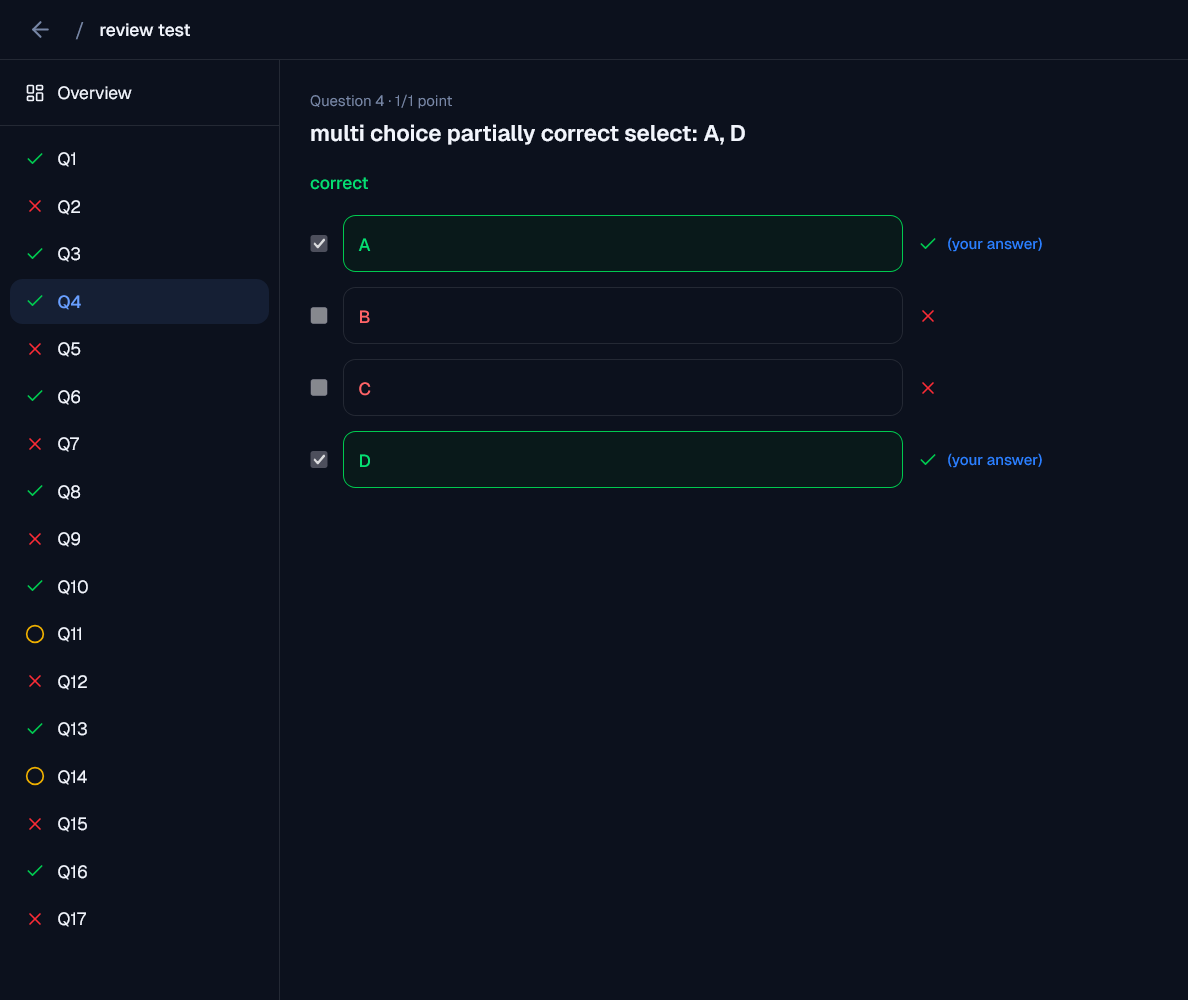
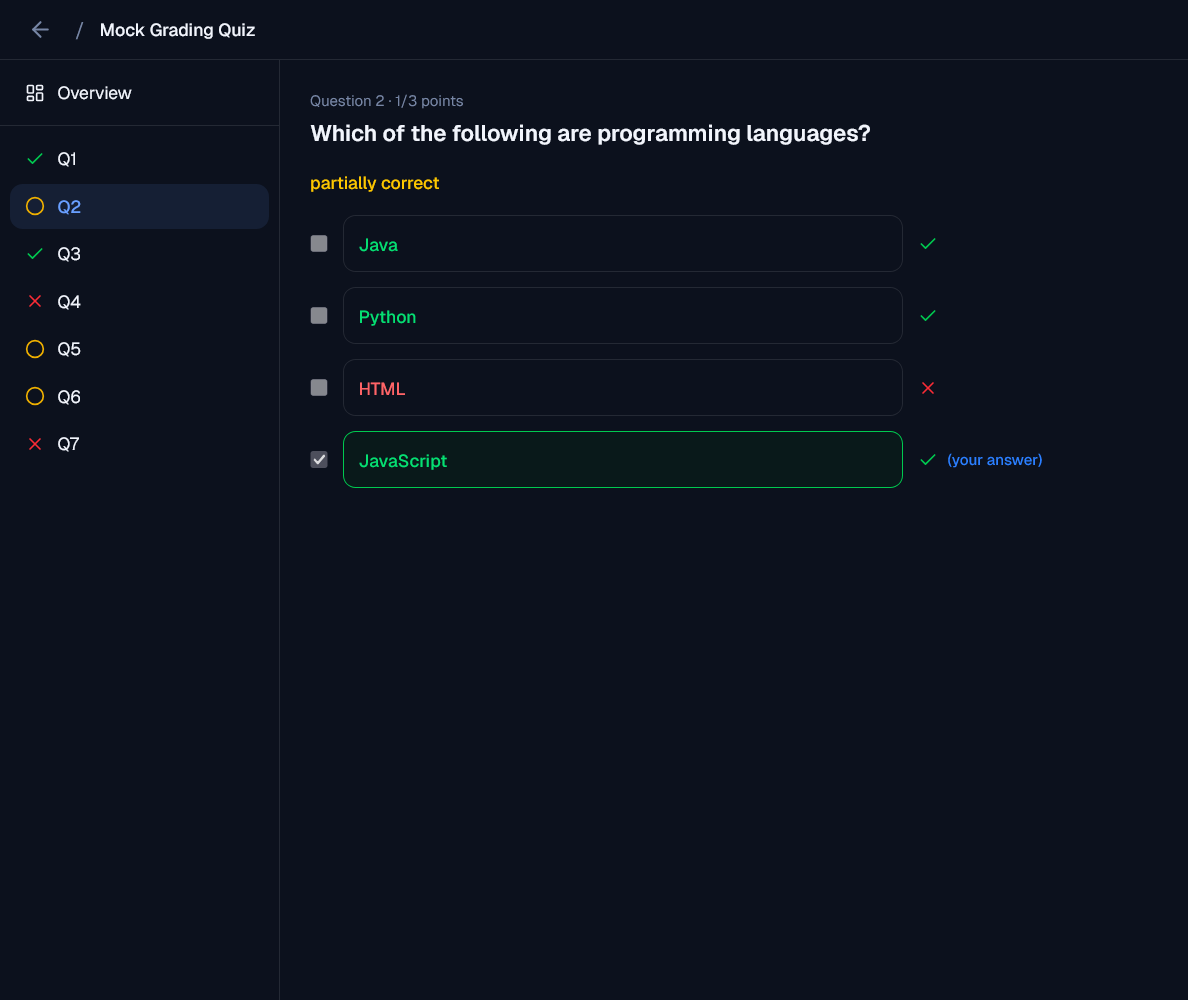
last minute changes

diff --git a/main.tex b/main.tex
@@ -77,9 +77,9 @@
 
 %% Zde zadejte abstrakt a klicova slova
 \abstrakt{
-Cílem této práce je navrhnout a implementovat full-stack webovou aplikaci pro správu testů, inspirovanou systémem Moodle, avšak s důrazem na moderní uživatelské rozhraní a specifické analytické funkce pro sebetestování.
+Cílem této bakalářské práce je návrh a implementace plně funkční full-stack webové aplikace Revizer pro správu a procvičování testů, která je inspirována robustními systémy jako Moodle, ale zaměřuje se primárně na potřeby samostatného studenta, moderní uživatelské rozhraní a pokročilou behaviorální analytiku. Současné vzdělávací platformy jsou často orientovány na formální zkoušení ze strany pedagogů, což studentům ztěžuje jejich využití k efektivnímu sebevzdělávání metodou aktivního vybavování znalostí (active recall). Praktickým výstupem práce je responzivní Single Page Application postavená na technologiích React, Spring Boot a relační databázi MySQL. Aplikace umožňuje uživatelům vytvářet personalizované kvízy organizované do strukturovaných kategorií. Podporuje širokou škálu sedmi interaktivních formátů otázek, včetně výběru jedné či více možností, pravdivostních tvrzení, přiřazování dvojic, řazení prvků pomocí rozhraní Drag and Drop, studijních kartiček a volných textových odpovědí.
 }{
-The goal of this thesis is to design and implement a full-stack web application for test management, inspired by the Moodle system, but with an emphasis on a modern user interface and specific analytical functions for self-testing.
+The goal of this bachelor thesis is the design and implementation of a fully functional full-stack web application, Revizer, for managing and practicing tests. While inspired by robust systems such as Moodle, it focuses primarily on the needs of self-directed learners, featuring a modern user interface and advanced behavioral analytics. Current educational platforms are often oriented toward formal assessment by educators, making it difficult for students to use them for effective self-study via active recall methods. The practical output of the thesis is a responsive Single Page Application built on React, Spring Boot, and a MySQL relational database. The application enables users to create personalized quizzes organized into structured categories. It supports a wide range of seven interactive question formats, including single- and multiple-choice questions, true/false statements, matching pairs, Drag and Drop element ordering, flashcards, and open-ended text responses.
 }
 \klicovaslova{testování, webová aplikace, React, Spring Boot, vzdělávání}{testing, web application, React, Spring Boot, education}
 
@@ -403,10 +403,6 @@ Během vývoje aplikace bude pro správu verzí zdrojového kódu využit systé
 
 Pro efektivní řízení vývoje a organizaci práce bude využit nástroj \textbf{Jira} (\url{https://www.atlassian.com/software/jira}). Systém Jira poslouží k plánování a sledování jednotlivých sprintů, správě backlogu a detailní evidenci vývojových úloh (tasků).
 
-\subsubsection{Postman}
-
-Během vývoje byl pro testování REST API využit nástroj \textbf{Postman} (\url{https://www.postman.com}). Jedná se o platformu, která umožňuje jednoduše sestavovat a odesílat HTTP požadavky na backendové endpointy a následně analyzovat odpovědi serveru. Nástroj slouží k ověřování správnosti vracených dat a funkčnosti aplikační logiky nezávisle na uživatelském rozhraní frontendu.
-
 \section{Řešení práce}
 
 Vývoj celé aplikace byl realizován s využitím pestré palety moderních softwarových nástrojů a knihoven, které zajišťují plynulý chod, bezpečnost a snadnou udržovatelnost. Projekt je koncipován jako moderní full-stack\cite{fullstack_dev} aplikace striktně rozdělená na nezávislou klientskou a serverovou část. Klientský frontend je implementován ve formě Single Page Application (SPA)\cite{spa_guide}, což zaručuje plynulé a dynamické uživatelské rozhraní. Tato klientská část vzdáleně volá REST API endpointy\cite{api_endpoint} backendové aplikace. Serverová (backend) část následně zpracovává hlavní byznysovou logiku, stará se o bezpečné ukládání a čtení veškerých dat z relační databáze a zároveň interně komunikuje se samostatným lokálním jazykovým modelem (LLM)\cite{local_llm}, který využívá k inteligentnímu vyhodnocování textových odpovědí.
@@ -467,7 +463,7 @@ Hlavní knihovny a nástroje, které byly použity:
 
 \subsection{Backend}
 
-Pro backendovou část je zvolen framework \textbf{Spring Boot}\cite{spring_boot}, který poskytuje základ pro tvorbu RESTful API, správu byznysové logiky a bezpečně řízenou bezstavovou autentizaci. Z hlediska nasazení je backend koncipován jako monolitická aplikace, jejíž vnitřní struktura je organizována do Java balíčků (packages) v rámci adresáře \texttt{src/main/java/com/opr3/opr3/}.
+Pro backendovou část je zvolen framework \textbf{Spring Boot}\cite{spring_boot}, který poskytuje základ pro tvorbu RESTful API, správu byznysové logiky a bezpečně řízenou bezstavovou autentizaci. Z hlediska nasazení je backend koncipován jako monolitická aplikace, jejíž vnitřní struktura je organizována do Java balíčků (packages).
 
 Vztahy, interakce a toky dat mezi jednotlivými komponentami jsou v kódu vymezeny následovně:
 \begin{itemize}
@@ -517,69 +513,87 @@ Přehled všech použitých technologií a knihoven je uveden v Tabulce~\ref{tab
 
 \section{Představení řešení}
 
-\mv{tady to ještě rozšřite. Tím, že ten popis architektury je celkem stručný a nemáte tam žádné "finty" k popisování v programování, tak bych se víc zaměřil na tohle a trošku to ještě víc prodejte - zmiňte, jaké všechny typy otázek tam být mohou (není vidět, jen z obrázku, normálně vysvětlete v odrážkách), jaké všechny statistiky tam být mohou (zmíněno jen obecně). Co ještě nevidím je způsob, jak se vytvořený kvíz dostane mezi ostatní uživatele, jak to funguje -- je to někde popsáno?}
-
 Vytvořené řešení představuje moderní webovou aplikaci zaměřenou na efektivní sebevzdělávání (self-testing) a metodu aktivního vybavování znalostí. Jádrem systému je tvorba personalizovaných kvízů z vlastních studijních materiálů (viz Obrázek~\ref{img:quiz_creation}), které lze logicky uspořádat do strukturovaných kategorií.
 
 \begin{figure}[H]
-    \centering
-    \includegraphics[width=0.85\textwidth]{quiz creation.png}
-    \caption{Rozhraní pro tvorbu kvízu}
-    \label{img:quiz_creation}
+\centering
+\includegraphics[width=0.85\textwidth]{quiz creation.png}
+\caption{Rozhraní pro tvorbu kvízu}
+\label{img:quiz_creation}
 \end{figure}
 
-
-Platforma nabízí vysokou flexibilitu díky podpoře mnoha typů kvízových formátů, jako jsou otázky s jedním či více výběry, přiřazování, seřazování, studijní kartičky a volné textové odpovědi. Přehled dostupných kategorií a typů otázek je znázorněn na Obrázku~\ref{img:categories} a Obrázku~\ref{img:question_types}.
+Platforma nabízí vysokou flexibilitu díky podpoře mnoha typů kvízových formátů. Přehled dostupných kategorií a typů otázek je znázorněn na Obrázku~\ref{img:categories} a Obrázku~\ref{img:question_types}. Mezi podporované formáty otázek patří:
+\begin{itemize}
+    \item \textbf{Jedna možnost (Single Choice)}: klasická volba právě jedné správné odpovědi ze seznamu,
+    \item \textbf{Více možností (Multiple Choice)}: výběr libovolného počtu správných odpovědí, kde výsledné hodnocení zohledňuje míru částečné úspěšnosti,
+    \item \textbf{Pravda/Nepravda (True/False)}: rychlé binární posouzení platnosti tvrzení,
+    \item \textbf{Přiřazování dvojic (Matching)}: spojování logicky souvisejících prvků z levého a pravého sloupce,
+    \item \textbf{Seřazování (Ordering)}: interaktivní řazení prvků do správného chronologického či logického pořadí pomocí rozhraní Drag \& Drop,
+    \item \textbf{Studijní kartička (Flashcard)}: oboustranná kartička určená k rychlému sebehodnocení, kdy uživatel po zobrazení rubové strany sám označí, zda si pojem úspěšně vybavil,
+    \item \textbf{Volná textová odpověď (Text Input)}: otevřená otázka, u níž uživatel volí buď automatické vyhodnocení sémantického významu pomocí lokálního LLM, nebo manuální sebehodnocení.
+\end{itemize}
 
 \begin{figure}[H]
-    \centering
-    \begin{subfigure}[b]{0.45\textwidth}
-        \centering
-        \includegraphics[width=\textwidth]{categories.jpg}
-        \caption{Přehled kategorií v postranním panelu}
-        \label{img:categories}
-    \end{subfigure}
-    \hfill
-    \begin{subfigure}[b]{0.45\textwidth}
-        \centering
-        \includegraphics[width=\textwidth]{question types.jpg}
-        \caption{Dostupné typy otázek při tvorbě kvízu}
-        \label{img:question_types}
-    \end{subfigure}
-    \caption{Prvky uživatelského rozhraní aplikace Revizer}
-    \label{img:ui_elements}
+\centering
+\begin{subfigure}[b]{0.45\textwidth}
+\centering
+\includegraphics[width=\textwidth]{categories.jpg}
+\caption{Přehled kategorií v postranním panelu}
+\label{img:categories}
+\end{subfigure}
+\hfill
+\begin{subfigure}[b]{0.45\textwidth}
+\centering
+\includegraphics[width=\textwidth]{question types.jpg}
+\caption{Dostupné typy otázek při tvorbě kvízu}
+\label{img:question_types}
+\end{subfigure}
+\caption{Prvky uživatelského rozhraní aplikace Revizer}
+\label{img:ui_elements}
 \end{figure}
-
 
 Zásadní inovací celého řešení je integrace umělé inteligence (lokálního jazykového modelu), která se stará o inteligentní a automatizované vyhodnocování právě těchto volných psaných odpovědí. Již při tvorbě kvízu si však uživatel volí, zda u dané textové otázky využije toto automatické posouzení pomocí LLM, nebo zda upřednostní vyhodnocení manuální. Pokud zvolí manuální přístup, správnost odpovědi nevyhodnocuje model, ale student si ji posoudí sám na konci kvízu, a to těsně před jeho finálním odevzdáním. Tato alternativa poskytuje uživateli větší flexibilitu a slouží jako důležité opatření pro případy, kdy by automatické vyhodnocení mohlo být nepřesné (například vlivem halucinací) nebo jinak nevyhovující. Příklad takového manuálního vyhodnocení je zobrazen na Obrázku~\ref{img:manual_review} -- student vidí svoji odpověď i referenční správnou odpověď a sám rozhodne, zda ji uzná jako správnou.
 
 \begin{figure}[H]
-    \centering
-    \includegraphics[width=0.75\textwidth]{manual review modal.jpg}
-    \caption{Manuální vyhodnocení otázky s volnou odpovědí}
-    \label{img:manual_review}
+\centering
+\includegraphics[width=0.75\textwidth]{manual review modal.jpg}
+\caption{Manuální vyhodnocení otázky s volnou odpovědí}
+\label{img:manual_review}
 \end{figure}
 
-
-Veškeré studijní úsilí a opakované pokusy uživatele jsou následně vizualizovány v pokročilém analytickém panelu (viz Obrázek~\ref{img:quiz_stats}), kde systém pomocí podrobných grafů a statistik ukazuje vývoj procentuální úspěšnosti, strávený čas i detailní chybovost a časovou náročnost u jednotlivých otázek.
+Veškeré studijní úsilí a opakované pokusy uživatele jsou následně vizualizovány v pokročilém analytickém panelu (viz Obrázek~\ref{img:quiz_stats}).
 
 \begin{figure}[H]
-    \centering
-    \includegraphics[width=0.85\textwidth]{quiz stats.png}
-    \caption{Analytický panel s grafy výsledků kvízu}
-    \label{img:quiz_stats}
+\centering
+\includegraphics[width=0.85\textwidth]{quiz stats.png}
+\caption{Analytický panel s grafy výsledků kvízu}
+\label{img:quiz_stats}
 \end{figure}
 
+Uživatel má k dispozici podrobné statistické vyhodnocení. Zobrazené metriky a vizualizace se dělí podle toho, zda se vztahují k celé kategorii kvízů, nebo pouze k jednomu konkrétnímu testu.
 
-Systém nezobrazuje tyto statistiky pouze u jednotlivých kvízů, ale i v rámci celé kategorie napříč všemi kvízy, které jsou v ní zařazeny.
+Statistiky dostupné jak pro každý jednotlivý test, tak i pro celou kategorii testů zahrnují:
+\begin{itemize}
+    \item \textbf{Sloupcový graf procentuálních výsledků (skóre)}: zobrazuje vývoj procentuálního skóre (osa Y) v závislosti na počtu pokusů (osa X),
+    \item \textbf{Sloupcový graf času stráveného u pokusů}: vizualizuje čas strávený na pokusech (osa Y) v závislosti na počtu pokusů (osa X),
+    \item \textbf{Počet pokusů}: celkový počet odeslaných pokusů.
+\end{itemize}
 
-Systém dále umožňuje detailní revizi uživatelových pokusů (viz Obrázek~\ref{img:quiz_review}), kde uživatel přesně vidí, jak odpověděl na všechny otázky, zda je jeho odpověď správná, a případně zkontroluje, které možnosti měly být označeny jako správné a které jako chybné.
+Statistiky dostupné výhradně pro jednotlivé testy navíc obsahují:
+\begin{itemize}
+    \item \textbf{Sloupcový graf průměrné chybovosti v procentech u jednotlivých otázek}: zobrazuje chybovost (osa Y) u jednotlivých otázek (osa X).
+    \item \textbf{Box plot graf času stráveného u každé otázky}: vizualizuje rozptyl času (osa Y) stráveného nad každou jednotlivou otázkou (osa X).
+\end{itemize}
+
+Pokud v systému není dostatek dat pro vykreslení konkrétního grafu (např. před prvním spuštěním testu), zobrazí se namísto něj upozornění „nedostatek dat“.
+
+Aplikace dále umožňuje detailní revizi uživatelových pokusů (viz Obrázek~\ref{img:quiz_review}), kde student vidí své odeslané odpovědi, jejich správnost a kompletní přehled správných řešení.
 
 \begin{figure}[H]
-    \centering
-    \includegraphics[width=0.85\textwidth]{quiz review.png}
-    \caption{Revize odpovědí po dokončení pokusu}
-    \label{img:quiz_review}
+\centering
+\includegraphics[width=0.85\textwidth]{quiz review.png}
+\caption{Revize odpovědí po dokončení pokusu}
+\label{img:quiz_review}
 \end{figure}
 
 
@@ -616,13 +630,17 @@ Přehled funkcí
     \end{itemize}
     \item Import a export kvízů a jednotlivých otázek:
     \begin{itemize}
-        \item Možnost importovat a exportovat kvízy i jednotlivé otázky pomocí formátu JSON. Dostupná by byla i JSON šablona (template) pro importování kvízu, kterou by uživatel mohl využít k tomu, aby mu kvíz vygeneroval libovolný jazykový model (LLM).
+        \item Možnost importovat a exportovat kvízy i jednotlivé otázky pomocí formátu JSON. Dostupná by byla i JSON šablona (template) pro importování kvízu, kterou by uživatel mohl využít k tomu, aby mu kvíz vygeneroval libovolný jazykový model (LLM). Nebo pro sdílení s jinými uživateli.
     \end{itemize}
     \item Export výsledků do formátu CSV:
     \begin{itemize}
         \item Možnost exportovat výsledky kvízů do souboru CSV, aby uživatel získal volný přístup ke svým datům a mohl s nimi libovolně nakládat, např. pro vlastní statistickou analýzu.
     \end{itemize}
     \item Podpora matematického formátování v otázkách (LaTeX).
+    \item Sdílení kvízů pomocí UUID.
+        \begin{itemize}
+        \item Tato funkce umožní přímou peer-to-peer výměnu studijních materiálů mezi studenty. Autor kvízu bude moci jednoduše zkopírovat unikátní UUID identifikátor svého kvízu a poskytnout jej jinému uživateli. Ten tento kód vloží ve svém rozhraní, což spustí proces kompletního překopírování celé struktury kvízu (včetně otázek a konfigurace) přímo do jeho vlastní knihovny, kde s ním může dále nezávisle pracovat.
+    \end{itemize}
 \end{itemize}
 
 \section{Závěr}
